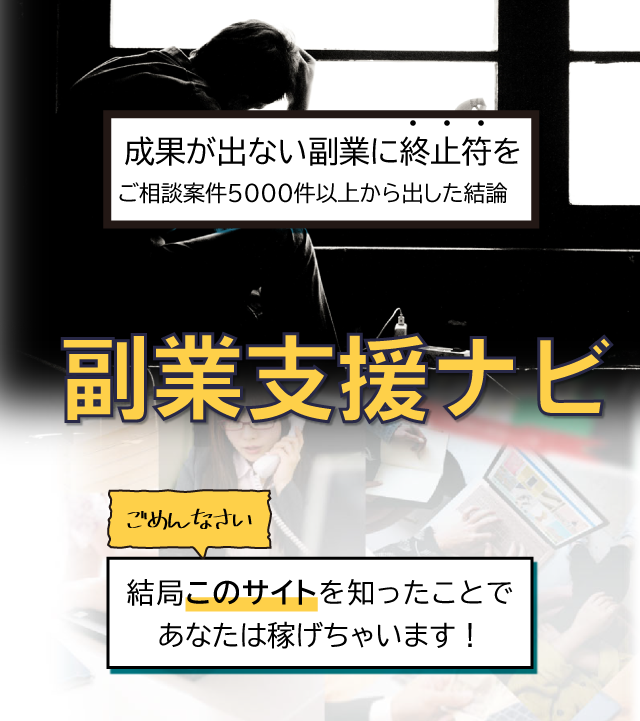
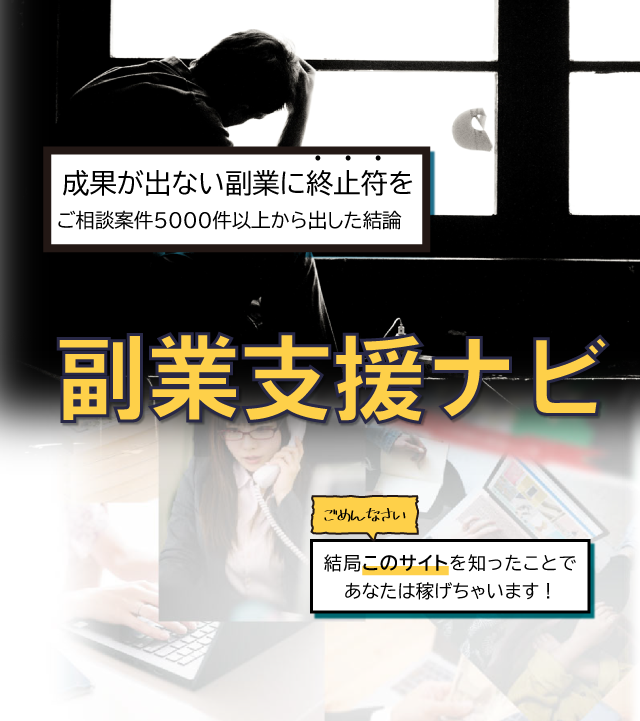
こみっと

diff --git a/index.html b/index.html
@@ -65,9 +65,9 @@
     <!-- sec01 ------------------------------>
     <section class="sec01">
         <div class="container">
-            <h2 class="mb30"><img src="img/pc_sec01_h2.png" alt="どうせ副業は失敗するもんだし、そんな悩みの声が多数" class="m0a imgr switch"></h2>
-            <p class="mb30 spmb15"><img src="img/pc_sec01_img01.png" alt="本業が忙しくてそもそも時間が無い、スキルもない、お金が少ない" class="m0a imgr switch"></p>
-            <h3 class="spmb15"><img src="img/pc_sec01_img02.png" alt="その悩みを解決できる理由" class="m0a imgr switch"></h3>
+            <h2 class="mb30"><img src="img/pc_sec01_h2.png" alt="どうせ副業は失敗するもんだし、そんな悩みの声が多数" class="m0a imgr "></h2>
+            <p class="mb30 spmb15"><img src="img/pc_sec01_img01.png" alt="本業が忙しくてそもそも時間が無い、スキルもない、お金が少ない" class="m0a imgr "></p>
+            <h3 class="spmb15"><img src="img/pc_sec01_img02.png" alt="その悩みを解決できる理由" class="m0a imgr "></h3>
             <p class="indent fwb ml120 font_s tar">※2021/01時点　弊社調べ</p>
         </div>
     </section>
@@ -88,7 +88,7 @@
                     <li>相談受付は <span class="cl_accent">24時間365日</span> 寄り添い共に歩みます!!</li>
                     <li>未経験OKで <span class="cl_accent">スキル・知識不要</span> スマホ・PCだけで簡潔!!</li>
                 </ul>
-                <p>という状況であれば、<span class="cl_accent fwb">ただのギャンブルになってしまう可能性かなり高いです。</span></p>
+                <p>5つの利点から<span class="cl_accent fwb">数多くのご相談</span>を承ってきました。</p>
             </div>
             <p class="s_none sec02_bg"><img src="img/pc_sec02_bg.png" alt="" class="m0a imgr"></p>
         </div>
@@ -101,13 +101,17 @@
 
         <div class="point2">
             <div class="container">
-                <h3><img src="img/pc_sec07_p2_ttl.png" alt="" class="m0a imgr switch"></h3>
-                <div class="white_box">
-                    <p class="pb45 sppb15"><img src="img/pc_sec07_p2_img06.png" alt="" class="m0a imgr switch"></p>
-                    <div class="pb30 sppb15"><img src="img/pc_sec07_p2_img07.png" alt="" class="fr">今でもたまに、デバイス毎の表示を気にせず、<br class="ts_none">PC用の表示しか用意していないランディングページを見かけます。<br><br>そのようなページをスマートフォンで見ると、<br class="ts_none">単純に<span class="highlight">見にくいし、押し辛い。</span><br>どんなに商品が良かったとしても、
-                        <br class="ts_none">これではその魅力が相手に伝わりません。<br><br>つまり、デバイスに最適化されたページが存在しないという事は、それだけで、機会損失に繋がってしまうという事になります。<br><br>だから私たちは、何か特別な理由が無い限りは、<br class="s_none">それぞれの端末に完全対応したレスポンシブデザインで制作させていただいております。</div>
+                <!-- <h3><img src="img/pc_sec07_p2_ttl.png" alt="" class="m0a imgr switch"></h3> -->
+                <div>
+                    <!-- <p class="pb45 sppb15"><img src="img/pc_sec07_p2_img06.png" alt="" class="m0a imgr switch"></p> -->
+                    <div class="pb30 sppb15 tar font_sl trasX145px"><img src="img/pc_sec07_p2_img07.png" alt="" class="fr"> お電話でのお問い合わせはこちら
+                        <br>TEL:
+                        <span class="highlight">03-4531-3728</span><br><br> お電話でのお問い合わせはこちら
+                        <br>TEL:
+                        <span class="highlight">03-4531-3728</span><br>
+                    </div>
                     <p>
-                        <a href="#form"><img src="img/pc_cta_btn.png" alt="" class="m0a imgr switch"></a>
+                        <a href="#form"><img src="img/pc_cta_btn.png" alt="" class="m0a imgr "></a>
                     </p>
                 </div>
             </div>

diff --git a/css/common.css b/css/common.css
@@ -120,6 +120,13 @@ a img:hover {
 }
 
 
+/*32px*/
+
+.font_sl {
+    font-size: 1.888em;
+}
+
+
 /*24px*/
 
 .font_l {
@@ -192,6 +199,12 @@ a img:hover {
     }
     .sp_shadow {
         text-shadow: 0 0 3px #fff, 0 0 3px #fff, 0 0 3px #fff, 0 0 3px #fff, 0 0 3px #fff, 0 0 3px #fff, 0 0 3px #fff, 0 0 3px #fff, 0 0 3px #fff, 0 0 3px #fff, 0 0 3px #fff, 0 0 3px #fff, 0 0 3px #fff, 0 0 3px #fff, 0 0 3px #fff, 0 0 3px #fff;
+    }
+}
+
+@media screen and (max-width:480px) {
+    .font_sl {
+        font-size: 1.0em;
     }
 }
 
@@ -396,6 +409,16 @@ a img:hover {
 .ph15 {
     padding-left: 15px;
     padding-right: 15px;
+}
+
+.trasX145px {
+    transform: translateX(145px);
+}
+
+@media screen and (max-width:480px) {
+    .trasX145px {
+        transform: translateX(-15px);
+    }
 }
 
 @media screen and (max-width: 767px) {

diff --git a/css/sp.css b/css/sp.css
@@ -53,11 +53,11 @@ Header
     }
     header .logo {
         max-width: 100%;
-        min-width: 186px;
+        min-width: 230px;
         transform: translateX(-8px);
     }
     header .contact a:first-child p {
-        padding: 20px 0 20px 13px;
+        padding: 20px 0 20px 6px;
     }
     header .contact a:last-child p {
         background-color: #01896e;
@@ -217,15 +217,15 @@ cta-sec01
         margin-top: 0;
     }
     .cta-sec01 .point2 img.fr {
-        float: inherit;
-        width: 80%;
+        width: 33%;
         padding-left: 0;
         margin: 0 auto;
+        transform: translate(-5px, -25px);
     }
     .cta-sec01 .point2,
     .cta-sec01 .point3,
     .cta-sec01 .point4 {
-        padding: 60px 0 30px;
+        padding: 90px 0 30px;
     }
     .cta-sec01 h3 {
         background-color: #fff;

diff --git a/css/style.css b/css/style.css
@@ -431,7 +431,7 @@ cta-sec01
 }
 
 .cta-sec01 .point2 {
-    background: url(../img/pc_sec07_p2_bg.png) no-repeat center top/contain;
+    background: url(../img/pc_cta_bg.png) no-repeat center top/contain;
     padding: 100px 0;
 }
 
@@ -439,6 +439,7 @@ cta-sec01
     float: right;
     padding-left: 30px;
     padding-bottom: 15px;
+    transform: translate(-20px, 0px);
 }
 
 .cta-sec01 .point3 {
